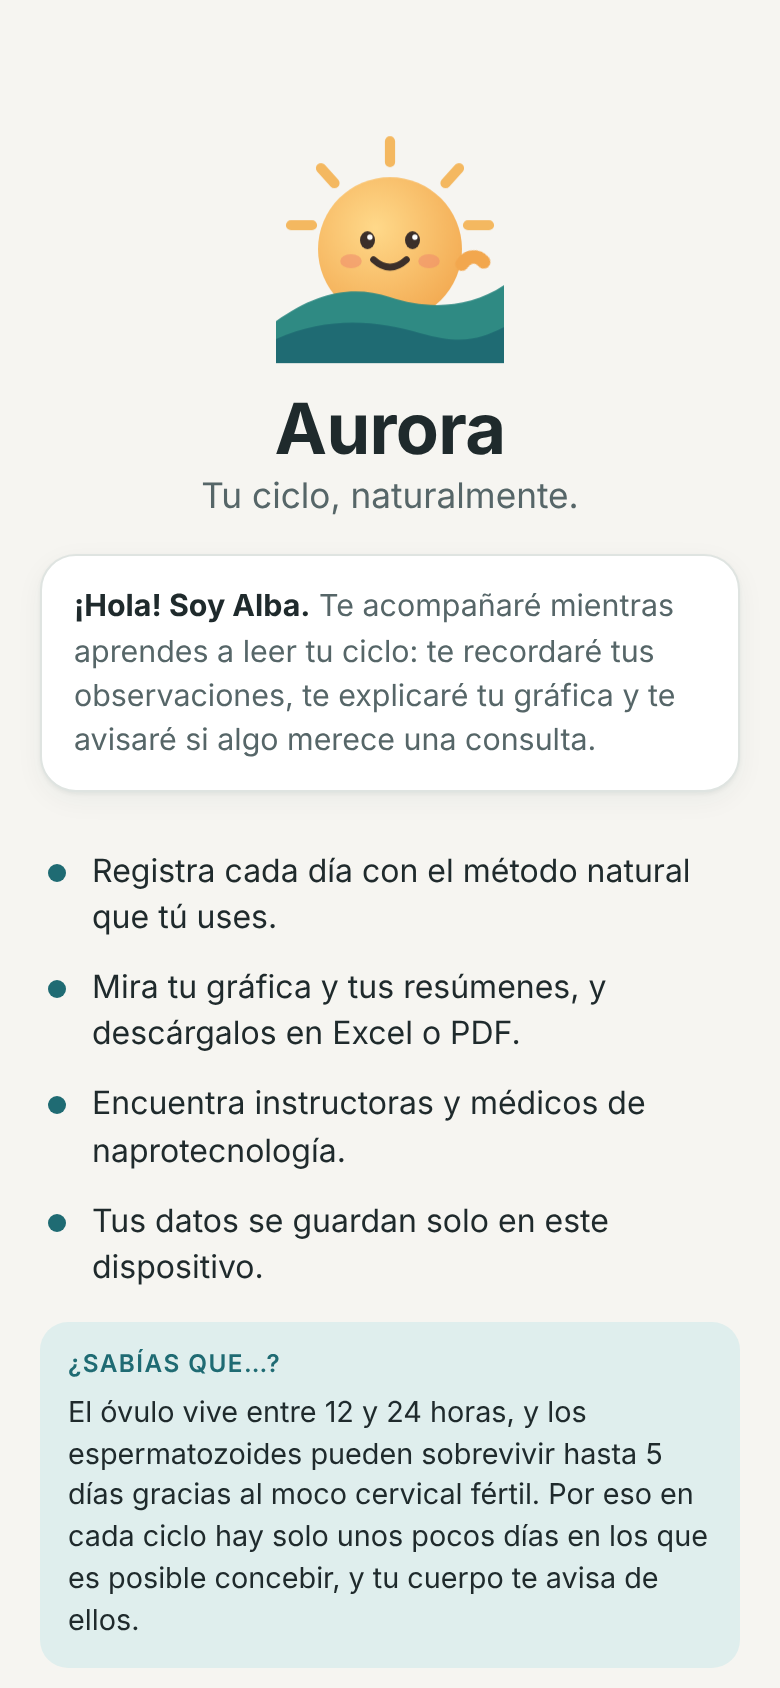
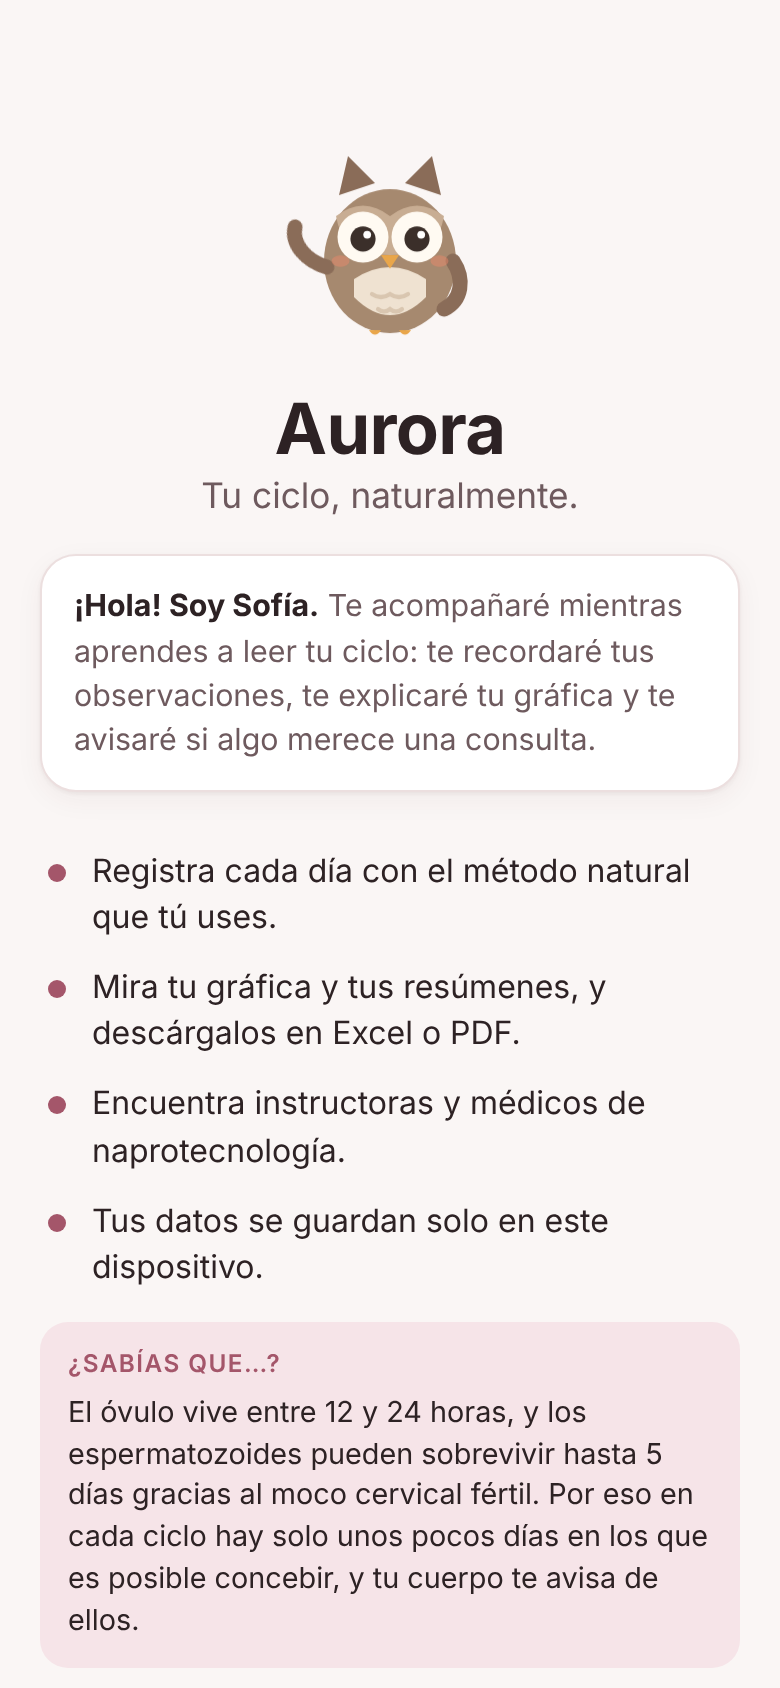
Paleta rosa empolvado e icono con Sofía
Claude-Session: https://claude.ai/code/session_01T9PcMjTnY5bFnT48zmhEyC

diff --git a/src/styles.css b/src/styles.css
@@ -1,49 +1,49 @@
 :root {
-  --bg: #f6f5f1;
+  --bg: #faf6f5;
   --surface: #ffffff;
-  --surface-2: #eceeea;
-  --ink: #1f2a2c;
-  --ink-2: #566668;
-  --ink-3: #879496;
-  --line: #dfe4e1;
-  --accent: #1f6b73;
+  --surface-2: #f3eaeb;
+  --ink: #2d2224;
+  --ink-2: #6e5a5e;
+  --ink-3: #a08d90;
+  --line: #ecdfdf;
+  --accent: #a4566a;
   --accent-ink: #ffffff;
-  --accent-soft: #dfeeed;
+  --accent-soft: #f6e4e8;
   --fert: #b4534a;
   --fert-bg: #fbeae7;
   --infert: #3d7f4f;
   --infert-bg: #e6f2e9;
   --warn: #a8472f;
-  --series: #1f6b73;
-  --series-2: #d07a3e;
+  --series: #a4566a;
+  --series-2: #c98a3e;
   --urgent: #b3261e;
   --urgent-bg: #fbe4e1;
   --consult: #9a5b12;
   --consult-bg: #fdf1dc;
   --info: #4a6a8a;
   --info-bg: #e7eef5;
-  --shadow: 0 1px 2px rgba(20, 50, 52, 0.06), 0 4px 14px rgba(20, 50, 52, 0.05);
+  --shadow: 0 1px 2px rgba(70, 30, 40, 0.06), 0 4px 14px rgba(70, 30, 40, 0.05);
   color-scheme: light;
 }
 @media (prefers-color-scheme: dark) {
   :root:not([data-theme='light']) {
-    --bg: #131a1b;
-    --surface: #1b2425;
-    --surface-2: #243031;
-    --ink: #ebf1f0;
-    --ink-2: #a7b6b5;
-    --ink-3: #7a8b8b;
-    --line: #2c3a3b;
-    --accent: #7cc4c8;
-    --accent-ink: #0e2729;
-    --accent-soft: #1d3a3c;
+    --bg: #1b1517;
+    --surface: #251d20;
+    --surface-2: #2f2529;
+    --ink: #f5ecee;
+    --ink-2: #c2aeb3;
+    --ink-3: #8f7c81;
+    --line: #3a2d31;
+    --accent: #e5a3b3;
+    --accent-ink: #2a141b;
+    --accent-soft: #40262e;
     --fert: #f0a59c;
     --fert-bg: #40262a;
     --infert: #8fcf9f;
     --infert-bg: #23362a;
     --warn: #f0a58e;
-    --series: #7cc4c8;
-    --series-2: #e8a26f;
+    --series: #e5a3b3;
+    --series-2: #e8b27f;
     --urgent: #f2a39b;
     --urgent-bg: #45211f;
     --consult: #efc07a;
@@ -55,23 +55,23 @@
   }
 }
 :root[data-theme='dark'] {
-    --bg: #131a1b;
-    --surface: #1b2425;
-    --surface-2: #243031;
-    --ink: #ebf1f0;
-    --ink-2: #a7b6b5;
-    --ink-3: #7a8b8b;
-    --line: #2c3a3b;
-    --accent: #7cc4c8;
-    --accent-ink: #0e2729;
-    --accent-soft: #1d3a3c;
+    --bg: #1b1517;
+    --surface: #251d20;
+    --surface-2: #2f2529;
+    --ink: #f5ecee;
+    --ink-2: #c2aeb3;
+    --ink-3: #8f7c81;
+    --line: #3a2d31;
+    --accent: #e5a3b3;
+    --accent-ink: #2a141b;
+    --accent-soft: #40262e;
     --fert: #f0a59c;
     --fert-bg: #40262a;
     --infert: #8fcf9f;
     --infert-bg: #23362a;
     --warn: #f0a58e;
-    --series: #7cc4c8;
-    --series-2: #e8a26f;
+    --series: #e5a3b3;
+    --series-2: #e8b27f;
     --urgent: #f2a39b;
     --urgent-bg: #45211f;
     --consult: #efc07a;
@@ -249,7 +249,7 @@ input[type='search'], input[type='number'], select, .temp-input, .notes { width:
 .method.on .radio { border-color: var(--accent); background: radial-gradient(var(--accent) 45%, transparent 50%); }
 
 /* hoja de registro */
-.sheet-backdrop { position: fixed; inset: 0; z-index: 20; background: rgba(12, 28, 30, 0.45); display: flex; align-items: flex-end; justify-content: center; }
+.sheet-backdrop { position: fixed; inset: 0; z-index: 20; background: rgba(35, 15, 22, 0.45); display: flex; align-items: flex-end; justify-content: center; }
 .sheet { width: 100%; max-width: 520px; max-height: 94dvh; background: var(--bg); border-radius: 20px 20px 0 0; display: flex; flex-direction: column; animation: up 0.22s ease-out; }
 @keyframes up { from { transform: translateY(30px); opacity: 0; } }
 @media (prefers-reduced-motion: reduce) { .sheet { animation: none; } }

diff --git a/src/lib/export.ts b/src/lib/export.ts
@@ -278,7 +278,7 @@ export async function exportPdf(data: AppData, cycles: Cycle[], signals: Insight
     startY: 20,
     margin: { left: PW / 2 + 4, right: M },
     styles: { fontSize: 8.5 },
-    headStyles: { fillColor: [31, 107, 115] },
+    headStyles: { fillColor: [164, 86, 106] },
     head: [['Ciclo', 'Inicio', 'Duración', 'Día Pico', 'Subida temp.', 'Post-Pico']],
     body: cycles
       .filter((c) => c.hasStart)
@@ -296,7 +296,7 @@ export async function exportPdf(data: AppData, cycles: Cycle[], signals: Insight
       startY: Math.max((doc as unknown as { lastAutoTable: { finalY: number } }).lastAutoTable.finalY, 70) + 8,
       margin: { left: M, right: M },
       styles: { fontSize: 8, cellPadding: 1.6, valign: 'top' },
-      headStyles: { fillColor: [31, 107, 115] },
+      headStyles: { fillColor: [164, 86, 106] },
       head: [['Señal', 'Qué se observa', 'Con qué se asocia', 'Dónde']],
       body: signals.map((i) => [`${i.title}\n(${LEVEL_TXT[i.level]})`, i.seen, i.meaning, i.evidence.join('\n')]),
       columnStyles: { 0: { cellWidth: 45, fontStyle: 'bold' }, 1: { cellWidth: 60 }, 3: { cellWidth: 50 } },

diff --git a/vite.config.ts b/vite.config.ts
@@ -16,8 +16,8 @@ export default defineConfig({
         short_name: 'Aurora',
         description: 'Registro del ciclo para métodos naturales: Creighton, Billings, sintotérmico, temperatura y calendario.',
         lang: 'es',
-        theme_color: '#1f6b73',
-        background_color: '#faf6f3',
+        theme_color: '#a4566a',
+        background_color: '#faf6f5',
         display: 'standalone',
         orientation: 'portrait',
         icons: [{ src: 'icon.svg', sizes: 'any', type: 'image/svg+xml', purpose: 'any maskable' }],

diff --git a/index.html b/index.html
@@ -3,7 +3,7 @@
   <head>
     <meta charset="UTF-8" />
     <meta name="viewport" content="width=device-width, initial-scale=1, viewport-fit=cover" />
-    <meta name="theme-color" content="#1f6b73" />
+    <meta name="theme-color" content="#a4566a" />
     <meta name="apple-mobile-web-app-capable" content="yes" />
     <link rel="icon" href="/icon.svg" type="image/svg+xml" />
     <link rel="apple-touch-icon" href="/icon.svg" />

diff --git a/src/components/art.tsx b/src/components/art.tsx
@@ -112,7 +112,7 @@ export function BaseArt({ base }: { base: CrBase }) {
 function Slide() {
   // flechas de «deslizamiento»: sensación lubricante
   return (
-    <g fill="none" stroke="#1f6b73" strokeWidth="1.6" strokeLinecap="round" strokeLinejoin="round">
+    <g fill="none" stroke="#a4566a" strokeWidth="1.6" strokeLinecap="round" strokeLinejoin="round">
       <path d="M40 11h12M48 8l4 3-4 3" />
     </g>
   )
